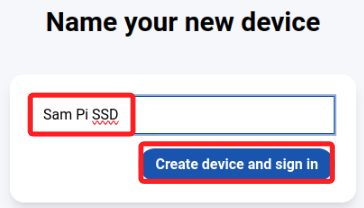
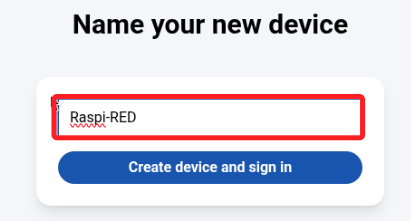
Commit on 2025-06-30 14:40:27

diff --git a/D01_樹莓派+Linux/04_外網連線.md/02_Raspberry Pi Connect.md b/D01_樹莓派+Linux/04_外網連線.md/02_Raspberry Pi Connect.md
@@ -54,31 +54,69 @@ _新版系統已預設安裝好，可直接跳到第 `4` 步_
 
 <br>
 
-4. 重啟後透過 VNC 連線桌面，會在右上角看到一個新的圖標，點擊此圖標並選擇 [Sign in](https://connect.raspberrypi.com/sign-in)，建議在電腦上開啟。
+4. 重啟後透過 VNC 連線桌面，會在右上角看到功能的圖標，預設是反白的。
+
+    ![](images/img_01.png)
+
+<br>
+
+5. 點擊此圖標開啟功能。
+
+    ![](images/img_02.png)
+
+<br>
+
+6. 會自動開啟瀏覽器進入 [Sign in](https://connect.raspberrypi.com/sign-in) 頁面。
 
     ![](images/img_141.png)
 
 <br>
 
-5. 初次使用先建立帳號。
+7. 有帳號的話可點擊登入。
+
+    ![](images/img_03.png)
+
+<br>
+
+## 註冊帳號
+
+_初次使用先建立帳號_
+
+<br>
+
+1. 點擊 [create one for free](https://id.raspberrypi.com/sign-up) 註冊新帳號。
 
     ![](images/img_142.png)
 
 <br>
 
-6. 需要驗證郵件。
+2. 填入相關資訊，需要驗證郵件。
+
+    ![](images/img_04.png)
+
+<br>
+
+## 登入
+
+1. 輸入帳號密碼。
 
     ![](images/img_143.png)
 
 <br>
 
-7. 完成後重新登入，並對設備命名。
+2. 可設置雙重驗證。
+
+    ![](images/img_05.png)
+
+<br>
+
+3. 對設備任意命名，然後點擊 `Create device and sign in`。
 
     ![](images/img_144.png)
 
 <br>
 
-8. 登入完成會亮起顏色；特別注意，必須先在樹莓派完成登入，才能到其他設備上進行遠端連線。
+4. 登入完成會亮起顏色；特別注意，必須先在樹莓派完成登入，才能到其他設備上進行遠端連線。
 
     ![](images/img_150.png)
 
